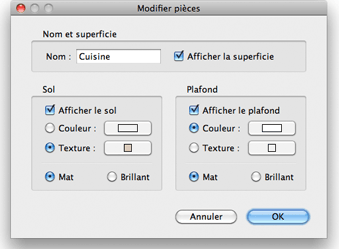
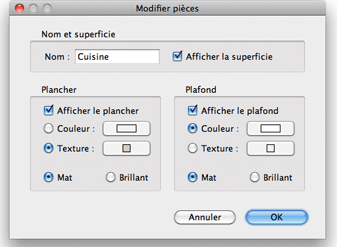
Renamed "sol" as "plancher"
git-svn-id: https://svn.code.sf.net/p/sweethome3d/code/trunk@3250 03e323e1-6c6c-46a5-9f71-c4ce5d8c6204

diff --git a/SweetHome3D/src/com/eteks/sweethome3d/viewcontroller/resources/help/fr/editingRooms.html b/SweetHome3D/src/com/eteks/sweethome3d/viewcontroller/resources/help/fr/editingRooms.html
@@ -83,13 +83,13 @@
       <p>Le nom et les attributs 3D d'une pi&egrave;ce peuvent &ecirc;tre modifi&eacute;s gr&acirc;ce &agrave; son panneau,
         en double-cliquant sur cette pi&egrave;ce dans le plan du logement, ou en choisissant <i>Plan &gt; Modifier les pi&egrave;ces...</i> apr&egrave;s
         l'avoir s&eacute;lectionn&eacute;.</p>
-        <p align="center"><img src="images/editingRooms.png" width="339" height="249"></p>
+        <p align="center"><img src="images/editingRooms.png" width="337" height="247"></p>
         <p>Dans le panneau de la pi&egrave;ce, vous pouvez modifier le nom de la pi&egrave;ce s&eacute;lectionn&eacute;e et si sa superficie doit &ecirc;tre
           affich&eacute;e dans le plan ou non.<br>
-          Vous pouvez aussi choisir si le sol et le plafond de la pi&egrave;ce 
+          Vous pouvez aussi choisir si le plancher et le plafond de la pi&egrave;ce 
           s&eacute;lectionn&eacute;e doivent &ecirc;tre affich&eacute;s dans la 
           vue 3D, et si oui, avec quelle couleur, quelle texture et &agrave; quelle 
-          brillance.</p>
+        brillance.</p>
       </td>
   </tr>
 </table>
@@ -122,8 +122,8 @@
               <p>&#149;</p>
             </td>
             <td>
-              <p>Si vous voulez appliquer des couleurs ou des textures diff&eacute;rentes d'une partie &agrave; l'autre du sol d'une m&ecirc;me
-                pi&egrave;ce (par exemple pour utiliser des carreaux pour le sol d'un coin cuisine),   <a href="drawingRooms.html">cr&eacute;er</a> une
+              <p>Si vous voulez appliquer des couleurs ou des textures diff&eacute;rentes d'une partie &agrave; l'autre du plancher d'une m&ecirc;me
+                pi&egrave;ce (par exemple pour utiliser des carreaux pour le plancher d'un coin cuisine),   <a href="drawingRooms.html">cr&eacute;er</a> une
                 pi&egrave;ce pour chacune de ces parties et changer leur couleur ou leur texture.</td>
           </tr>
           <tr valign="top">
@@ -131,7 +131,7 @@
               <p>&#149;</p>
             </td>
             <td>
-              <p>L'&eacute;l&eacute;vation du sol d'une pi&egrave;ce est toujours &eacute;gale &agrave; l'&eacute;l&eacute;vation du <a href="addingLevels.html">niveau</a> auquel la pi&egrave;ce appartient (ou nulle si aucun niveau n'a &eacute;t&eacute; ajout&eacute; au logement). Si la pi&egrave;ce n'est pas au <b>dernier niveau</b>, la hauteur de son plafond sera &eacute;gale &agrave; l'&eacute;l&eacute;vation plus la hauteur du niveau auquel elle appartient. Sinon, la hauteur du plafond d'une pi&egrave;ce est calcul&eacute;e &agrave; chaque
+              <p>L'&eacute;l&eacute;vation du plancher d'une pi&egrave;ce est toujours &eacute;gale &agrave; l'&eacute;l&eacute;vation du <a href="addingLevels.html">niveau</a> auquel la pi&egrave;ce appartient (ou nulle si aucun niveau n'a &eacute;t&eacute; ajout&eacute; au logement). Si la pi&egrave;ce n'est pas au <b>dernier niveau</b>, la hauteur de son plafond sera &eacute;gale &agrave; l'&eacute;l&eacute;vation plus la hauteur du niveau auquel elle appartient. Sinon, la hauteur du plafond d'une pi&egrave;ce est calcul&eacute;e &agrave; chaque
                 point d'une pi&egrave;ce, et la hauteur de chacun de ces points est &eacute;gale &agrave; la hauteur du point de d&eacute;part ou d'arriv&eacute;e
                 le plus proche d'un mur. Ceci permet de cr&eacute;er le plafond d'un sous-pente si vous avez affect&eacute; des hauteurs
                 diff&eacute;rentes au point de d&eacute;part et d'arriv&eacute;e des <a href="editingWalls.html">murs inclin&eacute;s</a> d'une

diff --git a/SweetHome3D/src/com/eteks/sweethome3d/viewcontroller/resources/help/fr/editingPreferences.html b/SweetHome3D/src/com/eteks/sweethome3d/viewcontroller/resources/help/fr/editingPreferences.html
@@ -28,7 +28,7 @@
 	<tr>
 	<td><p>Pour &eacute;diter les pr&eacute;f&eacute;rences de Sweet Home 3D, choisissez <i>Sweet Home 3D &gt; Pr&eacute;f&eacute;rences...</i> sous
 	    Mac OS X ou <i>Fichier &gt; Pr&eacute;f&eacute;rences...</i> sous les autres syst&egrave;mes d'exploitation.</p>
-	    <p align="center"><img src="images/editingPreferences.png" width="438" height="401"></p>
+	    <p align="center"><img src="images/editingPreferences.png" width="459" height="401"></p>
 	  <p>Dans le panneau des pr&eacute;f&eacute;rences, vous pouvez choisir la <i>Langue</i> utilis&eacute;e dans l'interface utilisateur
 	    de Sweet Home 3D et l'<i>Unit&eacute;</i> utilis&eacute;e
 	    pour dessiner les r&egrave;gles et la grille du plan du
@@ -52,9 +52,9 @@
           permettent de choisir comment seront dessin&eacute;s les meubles dans 
           le plan (voir les images ci-dessous).<br>
           Les boutons radio <i></i><i>Monochrome</i> et <i>Couleur ou texture 
-          du sol</i> permettent de choisir si les pi&egrave;ces doivent &ecirc;tre 
+          du plancher</i> permettent de choisir si les pi&egrave;ces doivent &ecirc;tre 
           remplies dans le plan avec la couleur ou de la texture que vous avez 
-          choisies pour leur sol, ou en gris (en blanc &agrave; l'impression).<br>
+          choisies pour leur plancher, ou en gris (en blanc &agrave; l'impression).<br>
           La liste d&eacute;roulante <i>Motif des murs dans le plan</i> permet 
           de choisir le motif de remplissage des murs dans le plan.</p>
 	  <p>La valeur de l'<i>Epaisseur des nouveaux murs</i> d&eacute;termine l'&eacute;paisseur des murs qui seront cr&eacute;&eacute;s
@@ -83,9 +83,9 @@
         </tr>
         <tr>
           <td align="center" valign="top">Rendu du plan par d&eacute;faut avec les ic&ocirc;nes du catalogue,<br>
-      les sols monochromes et les murs hachur&eacute;s</td>
+      les planchers monochromes et les murs hachur&eacute;s</td>
           <td align="center" valign="top">Rendu du plan avec les meubles vus de dessus,<br>
-      les sols color&eacute;s, et les murs en noir</td>
+      les planchers color&eacute;s, et les murs en noir</td>
         </tr>
       </table></td>
 	</tr>

diff --git a/SweetHome3D/src/com/eteks/sweethome3d/viewcontroller/resources/help/fr/drawingRooms.html b/SweetHome3D/src/com/eteks/sweethome3d/viewcontroller/resources/help/fr/drawingRooms.html
@@ -42,7 +42,7 @@
 	  </ul>
 	  <p>Quand vous dessinez une pi&egrave;ce point par point avec le magn&eacute;tisme activ&eacute;, un guide sous forme d'un point color&eacute; appara&icirc;tra
 	    pour vous aider &agrave; cliquer &agrave; l'intersection des murs. Une pi&egrave;ce cr&eacute;&eacute;e avec un double-clic couvre la superficie du
-	    sol comprise entre les murs qui entourent le point o&ugrave; vous avez cliqu&eacute;, et comprend aussi la surface d'un demi pas
+	    plancher comprise entre les murs qui entourent le point o&ugrave; vous avez cliqu&eacute;, et comprend aussi la surface d'un demi pas
 	    de porte de chacune des portes plac&eacute;s sur ces murs. Cette fonctionnalit&eacute; permet de cr&eacute;er facilement des pi&egrave;ces qui
 	    se joignent correctement dans la vue 3D quand les portes entre les murs sont ouvertes.<br>
 	      Ainsi, &agrave; moins que vous vouliez cr&eacute;er une surface sp&eacute;ciale qui ne touche pas les bords des

diff --git a/SweetHome3D/src/com/eteks/sweethome3d/viewcontroller/resources/help/fr/creatingPhotos.html b/SweetHome3D/src/com/eteks/sweethome3d/viewcontroller/resources/help/fr/creatingPhotos.html
@@ -79,7 +79,7 @@
               <td><img src="../images/photoQuality1.jpg" alt="Quality 1" width="240" height="160" border="1" align="absmiddle"  ></td>
               <td><p>2. Le second niveau de qualit&eacute; est le m&ecirc;me que 
                   le niveau le moins &eacute;lev&eacute; avec des ombres affich&eacute;s 
-                  sous les meubles pos&eacute;s sur le sol, ce qui donne un effet 
+                  sous les meubles pos&eacute;s sur le plancher, ce qui donne un effet 
                   plus photor&eacute;aliste.</p></td>
               <td><img src="../images/photoQuality3.jpg" alt="Quality 3" width="240" height="160" border="1" align="absmiddle" ></td>
               <td>4. Le meilleur niveau de qualit&eacute; est proche du pr&eacute;c&eacute;dent 

diff --git a/SweetHome3D/src/com/eteks/sweethome3d/viewcontroller/resources/help/fr/editing3DView.html b/SweetHome3D/src/com/eteks/sweethome3d/viewcontroller/resources/help/fr/editing3DView.html
@@ -141,7 +141,7 @@
         <p align="center"><img src="images/editing3DView.png" width="399" height="214"></p>
         <p>Dans le panneau de la vue 3D, vous pouvez modifier le champ de vue du visiteur virtuel, sa hauteur,
           la couleur ou la texture du sol et du ciel, l'intensit&eacute; de la lumi&egrave;re
-          et la transparence des murs (et des sols/plafonds des pi&egrave;ces).<br>
+          et la transparence des murs (et des planchers/plafonds des pi&egrave;ces).<br>
         L'&eacute;l&eacute;vation du point du vue du visiteur virtuel est &eacute;gale aux 13/14 de sa hauteur selon les proportions d'un adulte
         humain.</p>
       </td>
